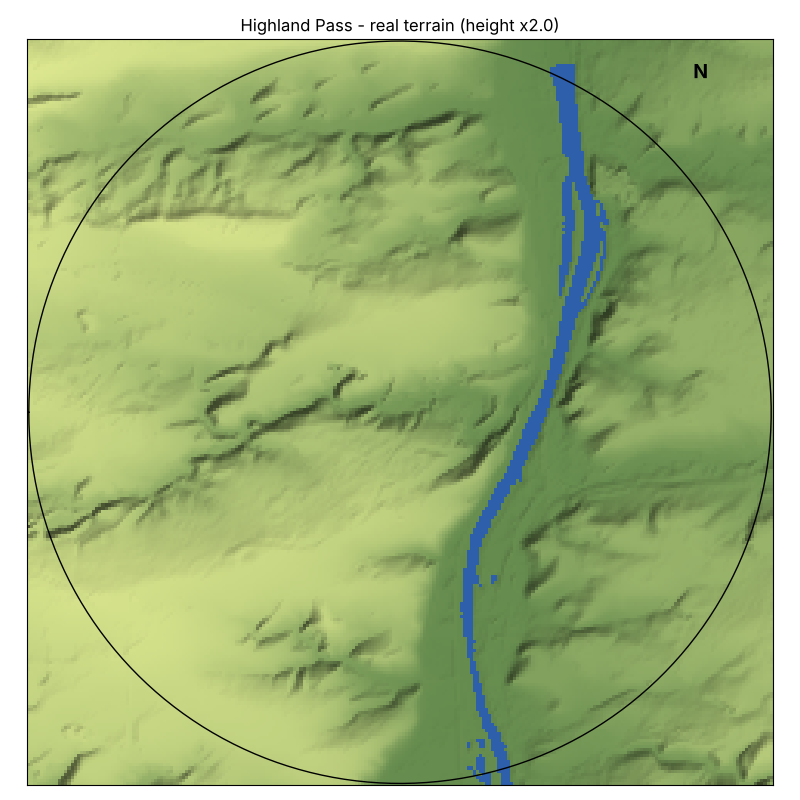
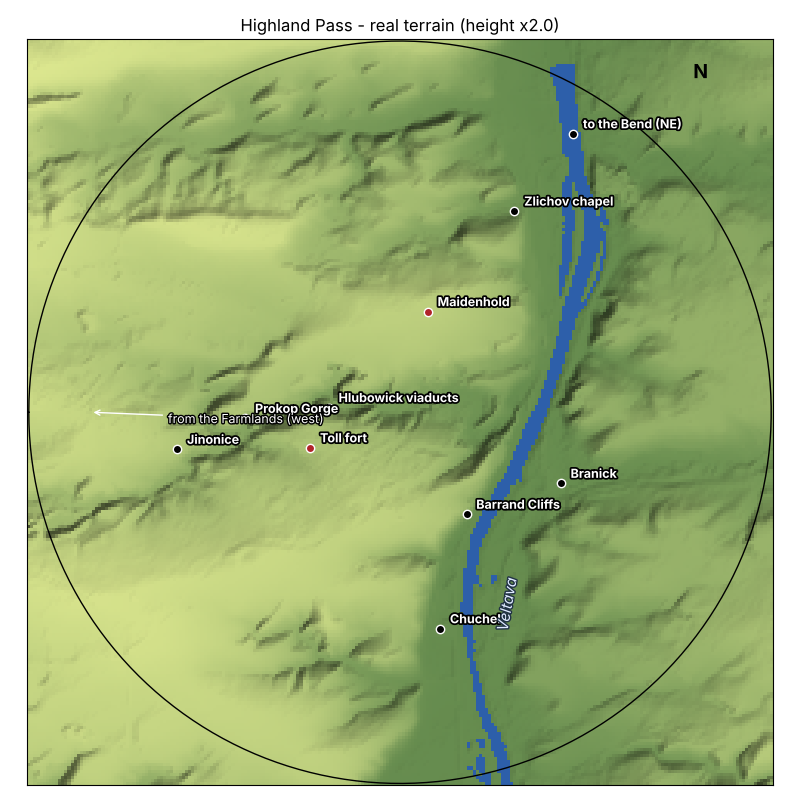
t305: pass flora and rocks, debug jump Shift+L, preview labels and names, spec 4.2 as built, terrain README

diff --git a/campaign/render/flora.js b/campaign/render/flora.js
@@ -23,10 +23,11 @@
     forest: [['conifer', 0.5, [0.8, 1.6]], ['broadleaf', 0.28, [0.8, 1.4]], ['pine', 0.12, [0.9, 1.5]], ['birch', 0.1, [0.9, 1.4]]],
     farm:   [['broadleaf', 0.55, [0.8, 1.3]], ['poplar', 0.3, [0.9, 1.3]], ['birch', 0.15, [0.9, 1.3]]],       // T11: hedgerows and poplars
     bend:   [['broadleaf', 0.5, [0.8, 1.4]], ['poplar', 0.2, [0.9, 1.3]], ['conifer', 0.2, [0.8, 1.4]], ['birch', 0.1, [0.9, 1.3]]],   // Phase 3 T02
+    pass:   [['broadleaf', 0.55, [0.8, 1.3]], ['conifer', 0.25, [0.8, 1.3]], ['birch', 0.2, [0.8, 1.2]]],   // Phase 4 T05: beech woods in the gorge, pines on the limestone
     ash:    [['deadwood', 1, [0.7, 1.5]]],
     ashfar: [['conifer', 0.42, [0.8, 1.5]], ['pine', 0.26, [0.9, 1.5]], ['broadleaf', 0.2, [0.8, 1.3]], ['birch', 0.12, [0.9, 1.3]]],
   };
-  const ROCK_COL = { forest: [0x6a5f50, 0x7b7364], ash: [0x2a2420, 0x3d3530], farm: [0x7a7262, 0x8c8474], bend: [0x8f8a7e, 0xa49e90] };
+  const ROCK_COL = { forest: [0x6a5f50, 0x7b7364], ash: [0x2a2420, 0x3d3530], farm: [0x7a7262, 0x8c8474], bend: [0x8f8a7e, 0xa49e90], pass: [0xb0aa9c, 0xc4bdae] };
 
   function place(id, rng, n, ok) {
     const R = T.region(id), out = [];

diff --git a/campaign/game.js b/campaign/game.js
@@ -1337,7 +1337,7 @@
   function rest() { onEvents(ST.lairRest(cs)); renderLair(); }
   /* ?debug actions: a hotkey on desktop, a button on touch (listed in the debug panel). [key, what, code, button] */
   // region jumps: keys 4 / 5 / 6, Shift+4 for the 4th region (Digit7+ are taken by sight / time / to post)
-  const DBG_REGION_KEYS = [['4', 'Digit4'], ['5', 'Digit5'], ['6', 'Digit6'], ['Shift+4', 'ShiftDigit4']];
+  const DBG_REGION_KEYS = [['4', 'Digit4'], ['5', 'Digit5'], ['6', 'Digit6'], ['Shift+4', 'ShiftDigit4'], ['Shift+L', 'ShiftKeyL']];   // Phase 4 T05: + the Highland Pass
   const DEBUG_KEYS = [
     ['N', '+100 food (hunger + growth)', 'KeyN', '+100 food'], ['J', 'hunger +25 (no growth)', 'KeyJ', 'hunger +25'],
     ['Home', 'hunger -25', 'Home', 'hunger -25'], ['K', 'damage 20 HP (0 HP = death)', 'KeyK', '-20 HP'],

diff --git a/ai_sdlc/001_campaign/004_task_highlands.md b/ai_sdlc/001_campaign/004_task_highlands.md
@@ -194,6 +194,8 @@ aeries.pass = { at: '<a cleft in the Barrand Cliffs>', facing: '<the river>' },
 map.world.pass = [-1, 2.6]; map.links += [['pass', 'bend']]; delete map.later.pass,
 ```
 
+As built in T05 (`tools/terrain/regions/pass.json`, `core/data.js` `regions.pass`): the source tile starts at 50.0 N, so the window moved north - projection around 14.385 E, **50.040 N**, crop 14.32-14.45 E, **50.00-50.08 N**. Spots picked from the bake (game units, +X west): Maidenhold top (-90, 325) at about 332 m, its cliff face east (`face: -PI / 2`); the Prokop Gorge runs west from its mouth at about (-100, 30) along z 0-60, floor about 215 m, rims 285-305 m; big viaduct (300, 10) yaw 0 len 150, small viaduct (150, 15) len 110 (the deck height comes from the rims, as for every bridge, so `deckH` is not used: the decks stand 30+ units over the gorge floor); toll fort plateau (290, -115); Chuchel (-130, -700); Jinonice (720, -120); Branick (-520, -230) on the east bank; Zlichov (-370, 650); aerie (-215, -330) facing east. The river (about 187 m) enters in the south at x -335 and leaves north-east at x -560. The gold road runs from the west edge past Jinonice along the gorge's **south rim** to the big viaduct and on along the north rim to Maidenhold (the floor road would pass under the viaduct, not over it). Exits: pass -> farm west (PI / 2 +- 0.5), pass -> bend north-east (-0.75 .. 0.15, down the river); farm -> pass west, bend -> pass south-west (3 PI / 4 +- 0.35), both `minStage: 1`, plus the region's `minGrowth` (state.js and the compass exit marker check it). The map keeps the existing `world.pass = [-1.3, 0.6]` (between the Farmlands and the Bend, which it links to) instead of [-1, 2.6]. Settlements stay empty until T06 builds them on these plateaus. Debug: Shift+L (and the "to pass" button in the ?debug panel) jumps here.
+
 Palette `pass`: limestone white-grey on steep faces (more rock than the Bend: slope threshold lower), dry steppe grass on the cliff tops (the real Barrandov slopes are steppe reserves), dark beech forest in the gorge, meadows at Chuchel, slate blue water.
 
 ### 4.3 Maidenhold and the pass settlements

diff --git a/tools/terrain/README.md b/tools/terrain/README.md
@@ -53,6 +53,14 @@ node campaign/test/run.js                   # dem.test.js checks the module agai
 - Checked: Vyšehrad rock 236 m, Petřín 326 m, Letná 229 m, Vítkov 253 m, river 175-190 m.
 - The game exaggerates heights 1.6x (`regions.bend.terrain.exag` in `campaign/core/data.js`) so hills read on a phone.
 
+## Highland Pass (`regions/pass.json`, Phase 4 T05)
+
+- Crop 14.32-14.45 E, 50.00-50.08 N (the tile starts at 50.0 N); projection around 14.385 E, 50.040 N at 3.6 m per unit;
+  grid 241 x 241 every 10 units, radius 1200.
+- River traced from the south edge (Velka Chuchle) to the north-east edge (Zlichov / Smichov), along the east side.
+- Checked: Divci hrady (Maidenhold) top about 332 m, Prokop valley floor at the mouth about 215 m, river about 187 m.
+- The game exaggerates heights 2.0x (`regions.pass.terrain.exag`) so the Barrandov cliffs read on a phone.
+
 ## Adding a region
 
 1. Add the tile to `sources.json` if it is new (any SRTM-format 1 arc second tile works), run `fetch_sources.py`.
